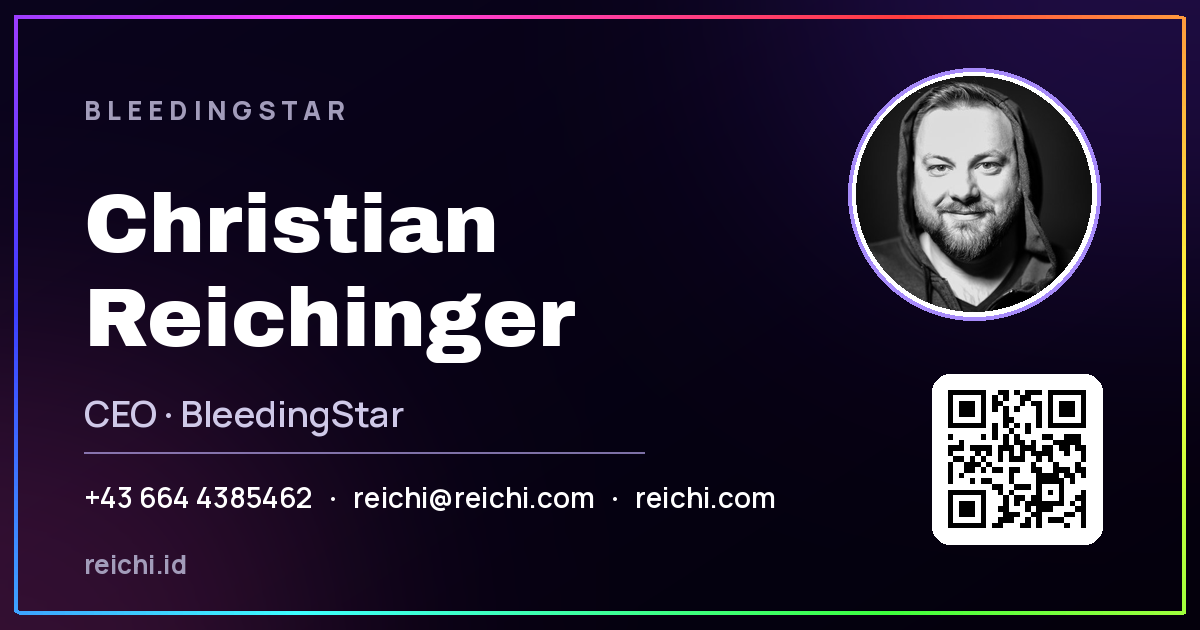
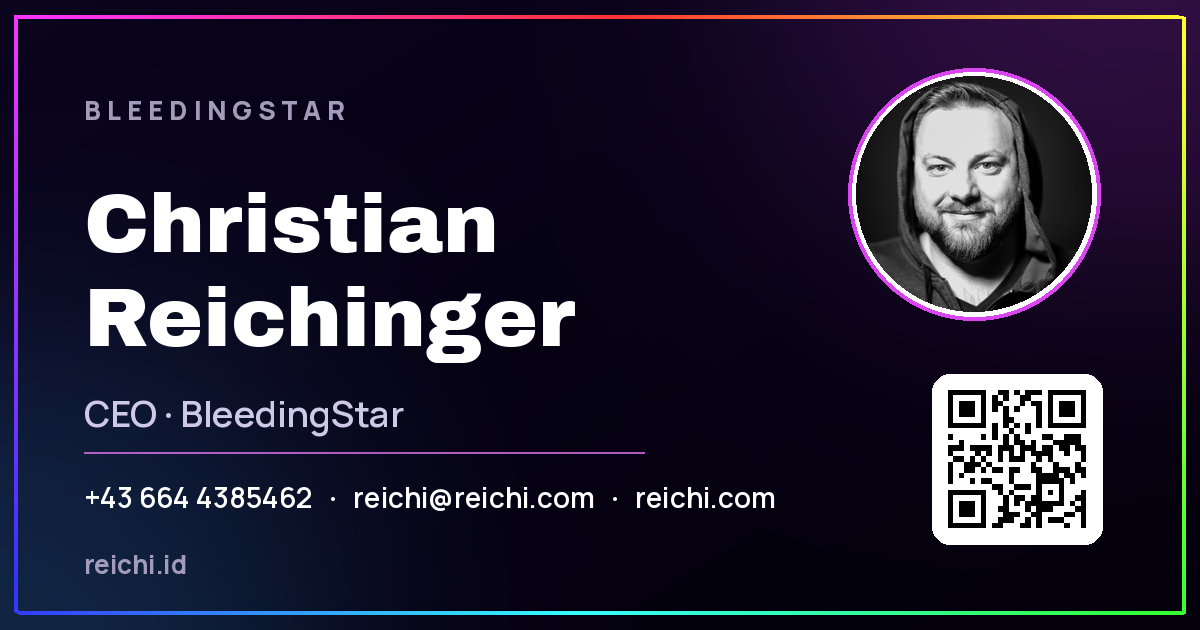
Glow as edge halo; bold fuchsia accents in both themes
- Replace the orbiting glow orb with a hue-cycling halo behind the
  card: the card covers the center, only the blurred outer edge shows,
  like a colored shadow (stronger in dark theme)
- Swap lavender accents for bold fuchsia/magenta in light and dark
  (links, buttons, chips, focus ring, photo ring, divider, favicon,
  theme-color, OG image) — all combinations re-measured >= 4.5:1,
  focus >= 3:1

diff --git a/styles.css b/styles.css
@@ -7,14 +7,14 @@
   --line-strong: rgba(16, 8, 38, 0.16);
   --paper: #f3f1fa;
   --paper-2: #faf9fd;
-  --accent: #7c3aed;
-  --accent-bright: #a78bfa;
-  --accent-deep: #6d28d9;
-  --accent-soft: #e7e1f8;
+  --accent: #d946ef;
+  --accent-bright: #e879f9;
+  --accent-deep: #a21caf;
+  --accent-soft: #fae8ff;
   /* 6.3:1 on --accent-soft */
-  --accent-text: #5b21b6;
-  --foil: #b9a8f0;
-  --foil-soft: rgba(185, 168, 240, 0.55);
+  --accent-text: #86198f;
+  --foil: #e879f9;
+  --foil-soft: rgba(232, 121, 249, 0.55);
   --white: #ffffff;
   --success: #15803d;
   --warning: #b45309;
@@ -76,15 +76,6 @@
   100% {
     --bg-x: 0;
     --bg-y: 0;
-  }
-}
-
-@keyframes glow-orbit {
-  from {
-    transform: rotate(0deg);
-  }
-  to {
-    transform: rotate(360deg);
   }
 }
 
@@ -154,7 +145,7 @@ a:hover {
   z-index: -1;
   pointer-events: none;
   background:
-    radial-gradient(120% 80% at 100% 0%, rgba(139, 92, 246, 0.16), transparent 50%),
+    radial-gradient(120% 80% at 100% 0%, rgba(217, 70, 239, 0.16), transparent 50%),
     radial-gradient(90% 70% at 0% 100%, rgba(236, 72, 153, 0.07), transparent 55%),
     linear-gradient(165deg, #eeeaf9 0%, #f6f4fc 45%, #f0e9fa 100%);
 }
@@ -172,7 +163,7 @@ a:hover {
   height: min(72vw, 580px);
   top: -14%;
   right: -10%;
-  background: radial-gradient(circle, rgba(124, 58, 237, 0.26), transparent 68%);
+  background: radial-gradient(circle, rgba(217, 70, 239, 0.26), transparent 68%);
 }
 
 .orb-b {
@@ -459,27 +450,7 @@ html:not(.js) .theme-toggle {
   animation: rise 0.9s var(--ease) 0.1s both;
 }
 
-.card-glow {
-  position: absolute;
-  inset: 0;
-  margin: auto;
-  width: 40%;
-  height: 40%;
-  pointer-events: none;
-  animation: glow-orbit var(--glow-speed) linear infinite;
-}
 
-.card-glow::after {
-  content: "";
-  position: absolute;
-  inset: 0;
-  border-radius: 50%;
-  background: hsl(calc(var(--hue) * 1deg) 100% 60%);
-  filter: blur(52px);
-  transform: translateY(-115%) scale(1.15);
-  animation: hue-animation var(--glow-speed) linear infinite;
-  opacity: 0.75;
-}
 
 .biz-card {
   position: relative;
@@ -508,6 +479,21 @@ html:not(.js) .theme-toggle {
 .biz-card.flipped,
 .biz-card.flipped:hover {
   transform: none !important;
+}
+
+/* Hue glow as a shadow: the card covers the center, only the
+   outer edge of the blurred halo is visible */
+.biz-card::before {
+  content: "";
+  position: absolute;
+  inset: -3px;
+  z-index: -1;
+  border-radius: calc(var(--card-radius) + 3px);
+  background: hsl(calc(var(--hue) * 1deg) 100% 55%);
+  filter: blur(20px);
+  opacity: 0.5;
+  animation: hue-animation var(--glow-speed) linear infinite;
+  pointer-events: none;
 }
 
 /* Flip mechanics: outer card tilts, inner flips */
@@ -689,7 +675,7 @@ html:not(.js) .theme-toggle {
   border-radius: 50%;
   border: 2px solid rgba(255, 255, 255, 0.9);
   box-shadow:
-    0 0 0 3px rgba(167, 139, 250, 0.5),
+    0 0 0 3px rgba(232, 121, 249, 0.55),
     0 10px 22px rgba(0, 0, 0, 0.35);
   background: rgba(255, 255, 255, 0.12);
   flex-shrink: 0;
@@ -1277,8 +1263,8 @@ html.theme-dark {
     --mute: #a29cba;
     --line: rgba(255, 255, 255, 0.12);
     --line-strong: rgba(255, 255, 255, 0.24);
-    --accent-soft: #251b47;
-    --accent-text: #c7b8fa;
+    --accent-soft: #4a044e;
+    --accent-text: #f5d0fe;
     --error: #f2a5a5;
 }
 
@@ -1288,7 +1274,7 @@ html.theme-dark {
 
 html.theme-dark .atmosphere {
     background:
-      radial-gradient(120% 80% at 100% 0%, rgba(124, 58, 237, 0.2), transparent 50%),
+      radial-gradient(120% 80% at 100% 0%, rgba(217, 70, 239, 0.2), transparent 50%),
       radial-gradient(90% 70% at 0% 100%, rgba(236, 72, 153, 0.08), transparent 55%),
       linear-gradient(165deg, #060112 0%, #05000f 45%, #0a0320 100%);
 }
@@ -1305,7 +1291,7 @@ html.theme-dark .rail {
 }
 
 html.theme-dark a {
-    color: #b4a5f8;
+    color: #f0abfc;
 }
 
 html.theme-dark a:hover {
@@ -1313,13 +1299,13 @@ html.theme-dark a:hover {
 }
 
 html.theme-dark :focus-visible {
-    outline-color: #a78bfa;
+    outline-color: #e879f9;
 }
 
 html.theme-dark .eyebrow,
 html.theme-dark .guide-num,
 html.theme-dark .guide-list code {
-    color: #b4a5f8;
+    color: #f0abfc;
 }
 
 html.theme-dark .skip-link {
@@ -1358,7 +1344,7 @@ html.theme-dark .details-summary:hover {
 }
 
 html.theme-dark .fold-chevron {
-    color: #b4a5f8;
+    color: #f0abfc;
 }
 
 html.theme-dark .detail-list .value,
@@ -1392,8 +1378,8 @@ html.theme-dark .error-note {
     background: rgba(185, 28, 28, 0.18);
 }
 
-html.theme-dark .card-glow {
-    opacity: 1;
+html.theme-dark .biz-card::before {
+    opacity: 0.7;
 }
 
 @media (prefers-color-scheme: dark) {
@@ -1405,8 +1391,8 @@ html.theme-dark .card-glow {
     --mute: #a29cba;
     --line: rgba(255, 255, 255, 0.12);
     --line-strong: rgba(255, 255, 255, 0.24);
-    --accent-soft: #251b47;
-    --accent-text: #c7b8fa;
+    --accent-soft: #4a044e;
+    --accent-text: #f5d0fe;
     --error: #f2a5a5;
   }
 
@@ -1416,7 +1402,7 @@ html.theme-dark .card-glow {
 
   html:not(.js) .atmosphere {
     background:
-      radial-gradient(120% 80% at 100% 0%, rgba(124, 58, 237, 0.2), transparent 50%),
+      radial-gradient(120% 80% at 100% 0%, rgba(217, 70, 239, 0.2), transparent 50%),
       radial-gradient(90% 70% at 0% 100%, rgba(236, 72, 153, 0.08), transparent 55%),
       linear-gradient(165deg, #060112 0%, #05000f 45%, #0a0320 100%);
   }
@@ -1433,7 +1419,7 @@ html.theme-dark .card-glow {
   }
 
   html:not(.js) a {
-    color: #b4a5f8;
+    color: #f0abfc;
   }
 
   html:not(.js) a:hover {
@@ -1441,13 +1427,13 @@ html.theme-dark .card-glow {
   }
 
   html:not(.js) :focus-visible {
-    outline-color: #a78bfa;
+    outline-color: #e879f9;
   }
 
   html:not(.js) .eyebrow,
 html:not(.js) .guide-num,
 html:not(.js) .guide-list code {
-    color: #b4a5f8;
+    color: #f0abfc;
   }
 
   html:not(.js) .skip-link {
@@ -1486,7 +1472,7 @@ html:not(.js) .guide-list code {
   }
 
   html:not(.js) .fold-chevron {
-    color: #b4a5f8;
+    color: #f0abfc;
   }
 
   html:not(.js) .detail-list .value,
@@ -1520,8 +1506,8 @@ html:not(.js) .detail-list .value a {
     background: rgba(185, 28, 28, 0.18);
   }
 
-  html:not(.js) .card-glow {
-    opacity: 1;
+  html:not(.js) .biz-card::before {
+    opacity: 0.7;
   }
 }
 

diff --git a/index.html b/index.html
@@ -18,7 +18,7 @@
         } catch (e) {}
       })();
     </script>
-    <meta name="theme-color" media="(prefers-color-scheme: light)" content="#6d28d9" />
+    <meta name="theme-color" media="(prefers-color-scheme: light)" content="#a21caf" />
     <meta name="theme-color" media="(prefers-color-scheme: dark)" content="#05000f" />
     <meta
       name="description"
@@ -135,7 +135,6 @@
       </div>
 
       <div class="hero-stage" aria-label="Business card">
-        <div class="card-glow" aria-hidden="true"></div>
         <article class="biz-card" id="biz-card">
           <div class="card-inner" id="card-inner">
             <div class="card-front" id="card-front">

diff --git a/404.html b/404.html
@@ -18,7 +18,7 @@
       })();
     </script>
     <meta name="robots" content="noindex" />
-    <meta name="theme-color" media="(prefers-color-scheme: light)" content="#6d28d9" />
+    <meta name="theme-color" media="(prefers-color-scheme: light)" content="#a21caf" />
     <meta name="theme-color" media="(prefers-color-scheme: dark)" content="#05000f" />
     <title>Page not found — reichi.id</title>
     <link rel="stylesheet" href="/styles.css" />

diff --git a/app.js b/app.js
@@ -63,9 +63,9 @@
     const metas = document.querySelectorAll('meta[name="theme-color"]');
     metas.forEach((m) => {
       if (mode === "auto") {
-        m.content = m.media.includes("dark") ? "#05000f" : "#6d28d9";
+        m.content = m.media.includes("dark") ? "#05000f" : "#a21caf";
       } else {
-        m.content = dark ? "#05000f" : "#6d28d9";
+        m.content = dark ? "#05000f" : "#a21caf";
       }
     });
 
